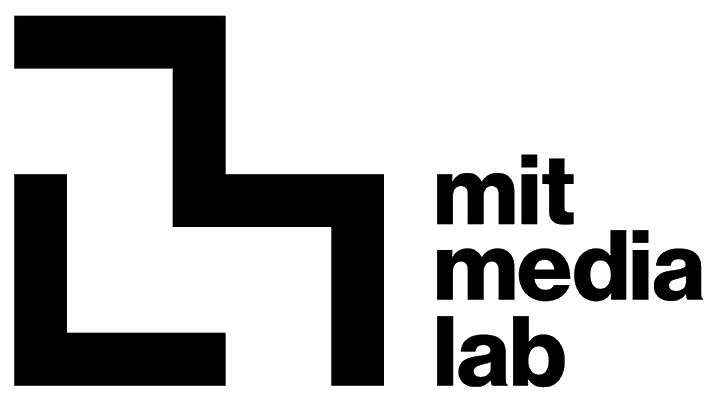
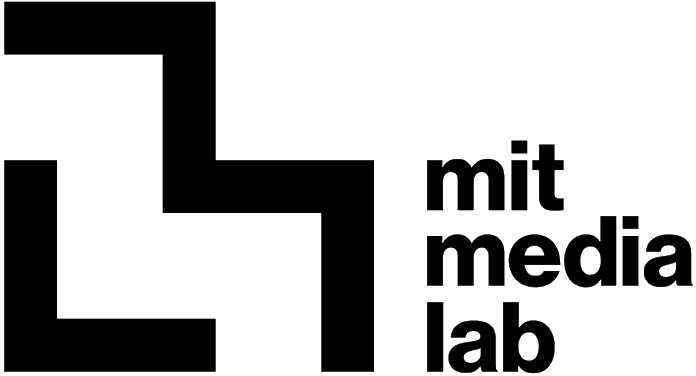
fixes

diff --git a/app/components/Landing/Landing.js b/app/components/Landing/Landing.js
@@ -10,8 +10,15 @@ const Landing = function() {
 				</div>	
 				<div className="sidebar"> 
 					<b>Resources</b>
-					<p><a href="http://www3.weforum.org/docs/WEF_Realizing_Potential_Blockchain.pdf" target="_blank">Realizing the Potential of Blockchain</a><br/>
-					<a href="http://dci.mit.edu/" target="_blank">MIT Digital Currency Initiative</a> </p>
+					<p>
+						<a href="http://dci.mit.edu/" target="_blank">MIT Digital Currency Initiative</a> 
+						<br/>
+						<a href="https://medium.com/blockchannel/a-beginners-guide-to-ethereum-5e7e132a854d" target="_blank">A beginner's guide to ethereum</a> 
+						<br/>
+						<a href="https://github.com/ethereum/wiki/wiki/White-Paper" target="_blank">The Ethereum white paper</a> 
+						<br/>
+						<a href="https://hbr.org/2017/03/the-blockchain-will-do-to-banks-and-law-firms-what-the-internet-did-to-mediar" target="_blank">Harvard Business Review on Blockchain</a> 
+					</p>
 				</div>
 				<h3> What is Medrec?</h3>
 				<p>Electronic Health Records (EHRs) were never designed to manage the complexities of multi-institutional, lifetime medical records. As patients move between providers, their data becomes scattered across different organisations, losing easy access to past records. As providers — not patients — are the primary stewards of EHRs, patients face significant hurdles in viewing their reports and correcting erroneous data. This also forms an interoperability challenge between different provider and hospital systems, where IT providers can charge exorbitant prices for data exchange interfaces, as “information blocking” is economically incentivised. </p>

diff --git a/app/components/App/App.js b/app/components/App/App.js
@@ -31,11 +31,15 @@ const App = function() {
 			</Switch>
 			<div className="social"> 
 				<a href={'https://www.media.mit.edu/'} target="_blank"> 
-					<img width={'70px'} src={'/images/medialab.png'} alt={'medialab'} />
-				</a>
+					<img height={'30px'} src={'/images/medialab.png'} alt={'medialab'} />
+				</a>				
 				<a href={'https://www.media.mit.edu/groups/viral-communications/overview/'} target="_blank"> 
-					Viral Communications group MIT Media Lab
-				</a>			
+					<img height={'30px'} src={'/images/viral_logo.png'} alt={'viral communications'} />
+				</a>				
+				<a href={'https://www.rwjf.org/'} target="_blank"> 
+					<img height={'35px'} src={'/images/rwjf.png'} alt={'RWJF'} />
+				</a>
+		
 			</div>
 		</div>
 	);

diff --git a/app/components/App/app.scss b/app/components/App/app.scss
@@ -98,6 +98,7 @@ a.active {
 	top: 40vh;
 	animation: pulse 20s alternate infinite;
 }
+
 @keyframes pulse {
   0%   { transform: scale(0.8); }
   100% { transform: scale(1.2); }
@@ -122,10 +123,13 @@ a.active {
 
 .social {
 	position: fixed;
-	bottom: 3vh;
+	bottom: 2vh;
 	left: 2vw;
 }
 
+.social > a {
+	margin-right: 0.1vw;
+}
 
 img.diagram {
 	position: relative;

diff --git a/app/components/Team/team.scss b/app/components/Team/team.scss
@@ -15,14 +15,16 @@
 	width: 150px;
 	height: 150px;
 	// border: 1px solid;
-	margin: 0 3vw;
+	margin: 0vh 3vw;
 	align-self: flex-start;
+	filter: grayscale(100%);
+	margin-bottom: 10vh;
 }
 
 
 .team-info {
 	position: relative;
-	top: 1vh;
+	top: 0vh;
 	left: 0vw;
 	font-size: 11px;
 	line-height: 1.5;
